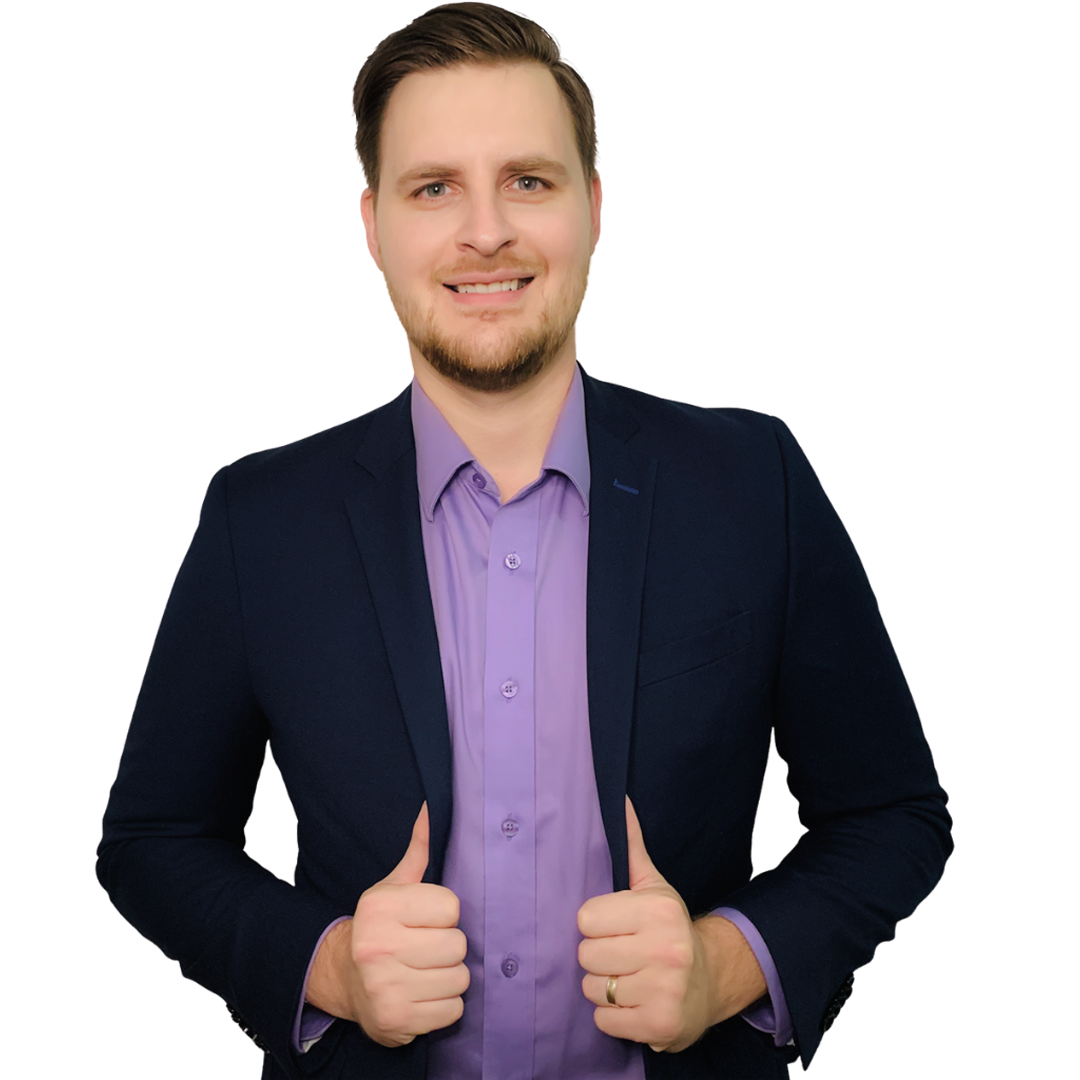
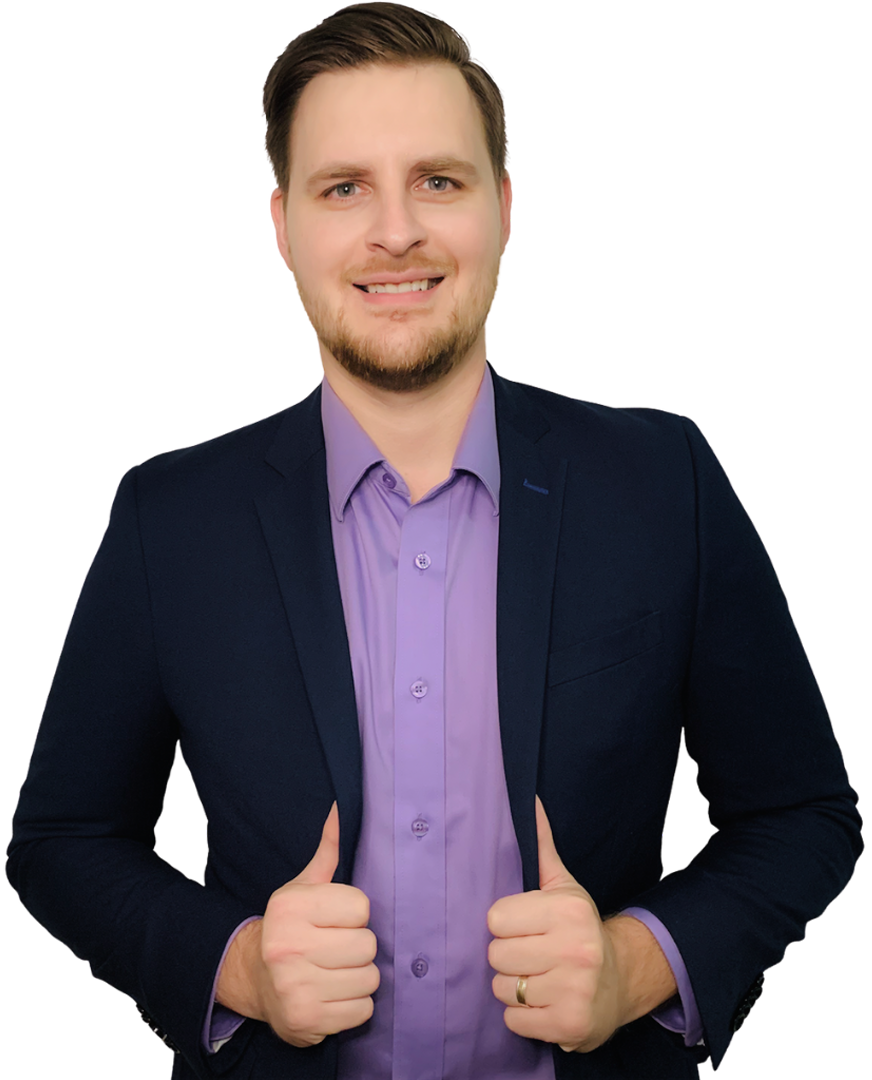
mobile fixes

diff --git a/public/css/stylesheet.css b/public/css/stylesheet.css
@@ -27,8 +27,8 @@ a:link, a:visited{
     background-color: #40a8c4;
 }
 .nav_links_container{
-    margin-left: 10px;
-    margin-right: 10px;
+    margin-left: 20px;
+    margin-right: 20px;
     display: flex;
     align-items: center;
     justify-content: space-between;
@@ -684,7 +684,7 @@ a:link, a:visited{
     margin: 0;
     padding: 0;
     font-family: 'Arial Narrow', Arial, sans-serif;
-    font-size: 28px;
+    font-size: 26px;
     color: white;
     letter-spacing: 3px;
 }
@@ -731,13 +731,13 @@ a:link, a:visited{
 }
 
 #intro_image_div{
-    margin-right: 25%;
+    position: relative;
+    margin-right: 30%;
     height: 85%;
+    bottom: 0px;
 }
 
 #landing_image{
-    position: relative;
-    bottom: 0px;
     height: 100%;
     overflow: hidden;
     -webkit-filter: drop-shadow(10px 10px 10px #222222);
@@ -835,7 +835,7 @@ a:link, a:visited{
 
     /*Landing*/
     #intro_image_div{
-        margin-right: 1%;
+        margin-right: 0;
         height: 85%;
     }
 
